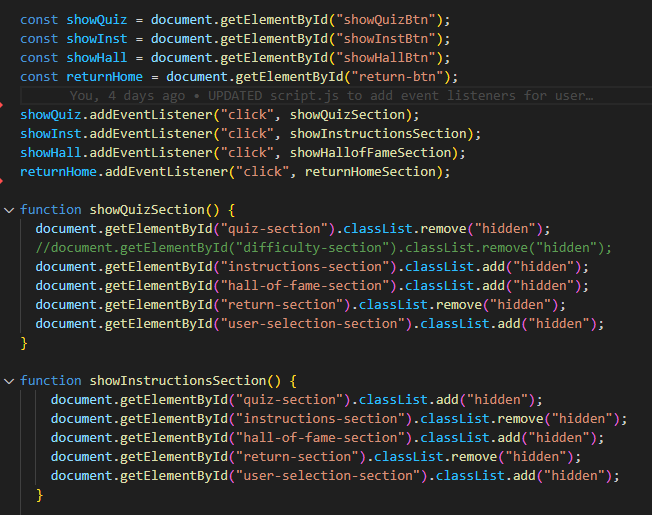
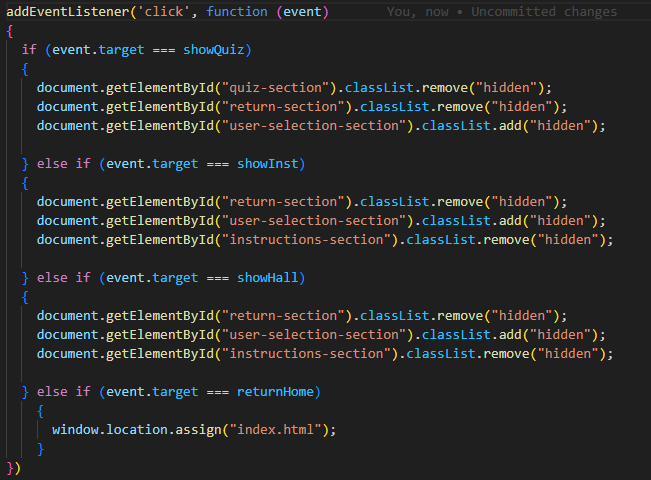
UPDATED script.js to correct error with show() function, UPDATED readme with results of test

Changed region(s): [[0.0, 0.0, 0.9524, 0.9688], [0.0, 0.9688, 0.0307, 1.0]]

diff --git a/assets/js/script.js b/assets/js/script.js
@@ -13,7 +13,7 @@ showHall.addEventListener("click", showHallofFameSection);
 returnHome.addEventListener("click", returnHomeSection);
 
 
-showQuiz.addEventListener('click', function (event) 
+addEventListener('click', function (event) 
 {
   if (event.target === showQuiz) 
   {

diff --git a/README.md b/README.md
@@ -444,6 +444,9 @@ NOTE: USING RESIZER GO FOR 200PX WHEN ADDING TO TESTING
  020         |  script.js / index.html    | Chrome        |  showQuizSection     | Fail       | Test 009 indicated that my code was in breach of the [DRY principle ](https://www.digitalocean.com/community/tutorials/what-is-dry-development). I asked a peer to review my code (see [Acknowledgments(#Acknowledgments)]). It was suggested to me that I use event.target rather than a function for each section. While the first section worked to show/hide the quiz section, the others did not. Tests failed
 | **Before**                                          |   **After**          ||||
 | ![678px ratio](/assets/testing/test-images/test-twenty-a.webp)  ![678px ratio](/assets/testing/test-images/test-twenty-b.webp) |       | |             | | |
+ 021         |  script.js / index.html    | Chrome        |  showQuizSection     | Pass       | I realised that my event listener was 'listening' for only the showQuiz variable. I removed this part and the function worked as planned. 
+| **Before**                                          |   **After**          ||||
+| ![678px ratio](/assets/testing/test-images/test-twenty-one-a.webp)  |       | |             | | |
 
 
 
